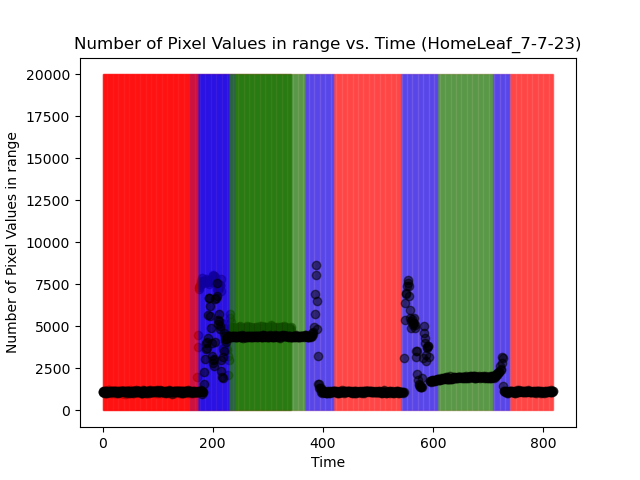
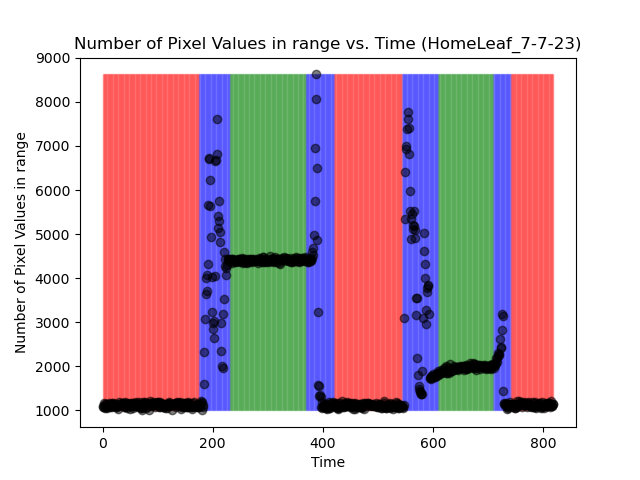
generated and added new graphs

diff --git a/ada_feeding_perception/ada_feeding_perception/Data Analysis/data_analysis.py b/ada_feeding_perception/ada_feeding_perception/Data Analysis/data_analysis.py
@@ -9,7 +9,9 @@ This file goes through csv files and creates matplotlib plots and saves them to 
 def main(args=None):
     # File names
     # files = ['HomeDonut', 'HomeLeaf', 'FaceDonut', 'FaceLeaf', 'PlateDonut', 'PlateLeaf']
-    files = ["HomeCarrot_7-7-23", "HomeLeaf_7-7-23", "PlateCarrot_7-7-23", "PlateLeaf_7-7-23", "FaceCarrot_7-7-23", "FaceLeaf_7-7-23"]
+    # files = ["HomeCarrot_7-7-23", "HomeLeaf_7-7-23", "PlateCarrot_7-7-23", "PlateLeaf_7-7-23", "FaceCarrot_7-7-23", "FaceLeaf_7-7-23"]
+
+    files = []
 
     for file in files:
         x_values = []
@@ -27,24 +29,25 @@ def main(args=None):
                     labels.append(line[2])
                 i += 1
 
-            y_start = 0
-            y_end = 20000
+        y_start = min(y_values)
+        y_end = max(y_values)
 
-            for i in range(len(labels)):
-                if labels[i] == 'empty':
-                    plt.fill_betweenx([y_start, y_end], x_values[i - 1], x_values[i], color="red", alpha=0.2)
-                elif labels[i] == 'hand':
-                    plt.fill_betweenx([y_start, y_end], x_values[i - 1], x_values[i], color="blue", alpha=0.2)
-                else:
-                    plt.fill_betweenx([y_start, y_end], x_values[i - 1], x_values[i], color="green", alpha=0.2)
+        print(labels)
+        for i in range(len(labels) - 1):
+            if labels[i] == 'empty':
+                plt.fill_betweenx(y=[y_start, y_end], x1=x_values[i], x2=x_values[i + 1], color="red", alpha=0.2)
+            elif labels[i] == 'hand':
+                plt.fill_betweenx([y_start, y_end], x_values[i], x_values[i + 1], color="blue", alpha=0.2)
+            else:
+                plt.fill_betweenx([y_start, y_end], x_values[i], x_values[i + 1], color="green", alpha=0.2)
 
-        print(x_values)
         plt.scatter(x_values, y_values, color='black', alpha=0.5)
         plt.xlabel("Time")
         plt.ylabel("Number of Pixel Values in range")
         plt.title("Number of Pixel Values in range vs. Time (" + file + ")")
         # plt.show()
         plt.savefig(file + "_fig.png")
+        plt.close()
 
 
 if __name__ == '__main__':
